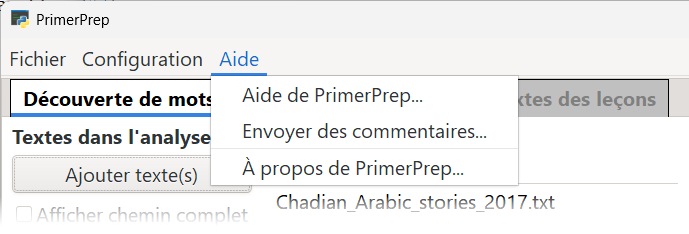
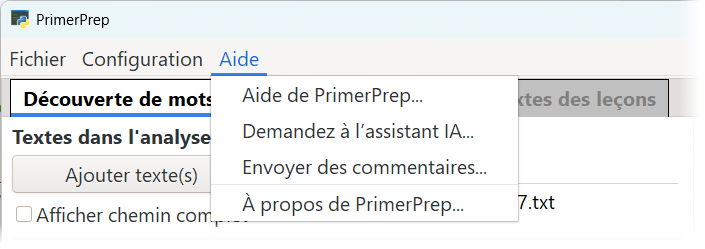
Update to 3.41: Add link to AI agent in Help menu

diff --git a/Help/PrimerPrepHelp-en_US.htm b/Help/PrimerPrepHelp-en_US.htm
@@ -154,7 +154,7 @@ body {
 <p><span translatable="yes">The <strong>Configure menu</strong> has an option to <strong>Select the Text Font</strong>. PrimerPrep uses the &lsquo;Charis SIL&rsquo; font by default for all of the vernacular language text. This is a very good general-purpose font for Roman script languages, and may very well cover all of your needs. This font should be installed with the PrimerPrep program. <strong>If your characters are not appearing correctly</strong> it probably means either the &lsquo;Charis SIL&rsquo; font is no longer installed (go to <a href="https://software.sil.org/charis/download/">https://software.sil.org/charis/download/</a> for instructions on downloading and installing this font), or you may have a non-Roman script orthography for your language. In this case use this menu option to select an appropriate font for displaying the language. The PrimerPrep program should be able to handle right-to-left scripts such as Arabic or Hebrew.</span></p>
 <p><span translatable="yes">This menu also has an option to <strong>change the user interface</strong> between English and several other languages.</span></p>
 <img style="margin-left:3em;" width="417" src="PrimerPrepHelpMenu.png" alt="Help menu">
-<p><span translatable="yes">And finally, there is a <strong>Help menu</strong> which can open this <strong>help</strong> page, take you to a web site so you can  <strong>give feedback</strong> about the PrimerPrep program, or provide some information <strong>about</strong> the program.</span></p>
+<p><span translatable="yes">And finally, there is a <strong>Help menu</strong> which can open this <strong>help</strong> page, open a web page where you can get <strong>AI assistance</strong>, take you to a web site so you can  <strong>give feedback</strong> about the PrimerPrep program, or provide some information <strong>about</strong> the program.</span></p>
 
 
 <h3 id="contact"><span translatable="yes">Contact Information</span></h3>

diff --git a/Help/PrimerPrepHelp-es_ES.htm b/Help/PrimerPrepHelp-es_ES.htm
@@ -154,7 +154,7 @@ body {
 <p><span translatable="yes">El <strong>menú Configurar</strong> tiene una opción para <strong>Seleccionar el tipo de letra del texto</strong>. PrimerPrep utiliza la fuente 'Charis SIL' por defecto para todo el texto de las lenguas vernáculas. Se trata de una fuente de uso general muy buena para las lenguas de escritura romana, y puede cubrir muy bien todas sus necesidades. Esta fuente debe instalarse con el programa PrimerPrep. <strong>Si sus caracteres no aparecen correctamente</strong>, probablemente significa que la fuente 'Charis SIL' ya no está instalada (vaya a <a href="https://software.sil.org/charis/download/">https://software.sil.org/charis/download/</a> para obtener instrucciones sobre cómo descargar e instalar esta fuente), o puede que tenga una ortografía de escritura no romana para su idioma. En este caso, utilice esta opción del menú para seleccionar un tipo de letra adecuado para mostrar el idioma. El programa PrimerPrep debería ser capaz de manejar escrituras de derecha a izquierda como el árabe o el hebreo.</span></p>
 <p><span translatable="yes">Este menú también tiene una opción para <strong>cambiar la interfaz de usuario</strong> entre inglés y varios otros idiomas.</span></p>
 <img style="margin-left:3em;" width="417" src="es_ES\PrimerPrepHelpMenu.png" alt="Help menu">
-<p><span translatable="yes">Y por último, hay un <strong>menú Ayuda</strong> que puede abrir esta página de <strong>ayuda</strong>, llevarle a un sitio web para que pueda <strong>dar su opinión</strong> sobre el programa PrimerPrep o proporcionar alguna información <strong>sobre</strong> el programa.</span></p>
+<p><span translatable="yes">And finally, there is a <strong>Help menu</strong> which can open this <strong>help</strong> page, open a web page where you can get <strong>AI assistance</strong>, take you to a web site so you can  <strong>give feedback</strong> about the PrimerPrep program, or provide some information <strong>about</strong> the program.</span></p>
 
 
 <h3 id="contact"><span translatable="yes">Información de contacto</span></h3>

diff --git a/Help/PrimerPrepHelp-fa_AF.htm b/Help/PrimerPrepHelp-fa_AF.htm
@@ -154,7 +154,7 @@ body {
 <p><span translatable="yes">مینو تنظیم یک گزینه دارد که دیاگراف ها را بشکل اتومات جستجو میکند (چنانچه در مینوتنظیم زبان در بالا تشریح داده شد). همچنان یک گزینه برای انتخاب اندازه متن میباشد. پرایمرپریپ گزینه "Charis SIL Compact" را بحیث نوع خط معمول در زبان ها استفاده میکند. این نوع خط باید که در برنامه تحلیل پرایمرپریپ نصب گردد. اگر کرکترهای را که شما ضرورت دارید بصورت درست ظاهر نگردند به این معنی است که شاید نوع خط " Charis SIL Compact" نصب نگردیده. برای رهنمایی دانلود نمودن و نصب این نوع خط به اینجا بروید. (go to: <a href="http://scripts.sil.org">http://scripts.sil.org</a>) و شاید نوع خط برای چاپ متن شما غیر رومان باشد. در این صورت شما باید این مینو را انتخاب نمایید تا که یک نوع خط مناسب برای نشان دادن زبان مورد نظر تان نمایش داده شود. برنامه پرایمر پریپ باید بتواند شما را در نوشتن متن از راست به چپ مانند متن های عربی و عبرانی کمک کند.</span></p>
 <p><span translatable="yes">این مینو گزینه ای دارد که میتواند نوع زبان را بین انگلیسی و فرانسوی برای استفاده کننده تغییر دهد.</span></p>
 <img style="margin-left:3em;" width="417" src="fa_AF\PrimerPrepHelpMenu.png" alt="Help menu">
-<p><span translatable="yes">And finally, there is a <strong>Help menu</strong> which can open this <strong>help</strong> page, take you to a web site so you can  <strong>give feedback</strong> about the PrimerPrep program, or provide some information <strong>about</strong> the program.</span></p>
+<p><span translatable="yes">And finally, there is a <strong>Help menu</strong> which can open this <strong>help</strong> page, open a web page where you can get <strong>AI assistance</strong>, take you to a web site so you can  <strong>give feedback</strong> about the PrimerPrep program, or provide some information <strong>about</strong> the program.</span></p>
 
 
 <h3 id="contact"><span translatable="yes">اطلاعات تماس</span></h3>

diff --git a/Help/PrimerPrepHelp-fr_FR.htm b/Help/PrimerPrepHelp-fr_FR.htm
@@ -154,7 +154,7 @@ body {
 <p><span translatable="yes">Le <strong>menu Configure</strong> comporte une option permettant de <strong>Sélectionner la police de texte</strong>. PrimerPrep utilise par défaut la police &lsquo;Charis SIL&rsquo; pour tous les textes en langues vernaculaires. Il s’agit d’une très bonne police polyvalente pour les langues à écriture romaine, qui peut très bien répondre à tous vos besoins. Cette police doit être installée avec le programme PrimerPrep. <strong>Si vos caractères ne s’affichent pas correctement</strong>, cela signifie probablement que la police &lsquo;Charis SIL&rsquo; n’est plus installée (voir <a href="https://software.sil.org/charis/download/">https://software.sil.org/charis/download/</a> pour des instructions sur le téléchargement et l’installation de cette police), ou que vous disposez d’une orthographe non romaine pour votre langue. Dans ce cas, utilisez cette option de menu pour sélectionner une police appropriée pour l’affichage de la langue. Le programme PrimerPrep devrait être en mesure de gérer les écritures de droite à gauche telles que l’arabe ou l’hébreu.</span></p>
 <p><span translatable="yes">Ce menu a également une option pour <strong>changer l’interface utilisateur</strong> de l’anglais à plusieurs autres langues.</span></p>
 <img style="margin-left:3em;" width="417" src="fr_FR\PrimerPrepHelpMenu.png" alt="Help menu">
-<p><span translatable="yes">Enfin, le menu <strong>Aide</strong> permet d’ouvrir cette page d’<strong>aide</strong>, d’accéder à un site Web où vous pouvez <strong>envoyer des commentaires</strong> sur le logiciel PrimerPrep, ou de fournir des informations <strong>à propos</strong> le logiciel.</span></p>
+<p><span translatable="yes">Enfin, le menu <strong>Aide</strong> permet d’ouvrir cette page d’<strong>aide</strong>, d’ouvrir une page web avec un <strong>assistant IA</strong>, d’accéder à un site web où vous pouvez <strong>envoyer des commentaires</strong> sur le logiciel PrimerPrep, ou de fournir des informations <strong>à propos</strong> le logiciel.</span></p>
 
 
 <h3 id="contact"><span translatable="yes">Information de contact</span></h3>

diff --git a/Help/PrimerPrepHelp-ps_AF.htm b/Help/PrimerPrepHelp-ps_AF.htm
@@ -154,7 +154,7 @@ body {
 <p><span translatable="yes">او همدارنګه د متن د خط د انتخاب لپاره یو بل انتخاب هم شته. پرایمر پریپ د ‘Charis SIL Compact’ خط دځايي ژبې د متن لپاره استفاده کوي. دا یو ډیر ښه مهم او عمومي او هدفي خط دی د رومان سکریپت ژبولپاره، او ممکن ستاسو ټول ضرورتونه په ښه توګه سره پوره کړي. دا خط باید د پرایمر پریپ پروګرام سره نصب شي. که چېرته ستاسو کرکترونه په ښه ډول سره نه ښکاري نوپه لوړ احتمال سره چې دا ‘Charis SIL Compact’خط به نه وي نصب شوی ( دلته لاړ شئ <a href="http://scripts.sil.org">http://scripts.sil.org</a> تاسو ته دلته د دې خط د راښکته کولو او نصب کولو معلومات درکوي( او یا به تاسو د non-Roman script اورتوګرافي د خپلی ژبې لپاره لرئ. په دې حالت کې د دې مینو ټاکنه وکاروئ، ترڅو دژبې د ښودلو لپاره یو مناسب خط انتخاب کړئ. د پرایمر پریپ پروګرام باید دا وړتیا ولري، ترڅو له ښي خوا نه چپ خوا ته سکريپتونه سمبال کړی شي لکه عربي او هیبریو.</span></p>
 <p><span translatable="yes">دا مینو دا انتخاب هم لري چې د فرانسوي او انګلیسی ژبې تر مینځ د کاروونکوو تر مینځ کارندي تغیروي شي.</span></p>
 <img style="margin-left:3em;" width="417" src="ps_AF\PrimerPrepHelpMenu.png" alt="Help menu">
-<p><span translatable="yes">And finally, there is a <strong>Help menu</strong> which can open this <strong>help</strong> page, take you to a web site so you can  <strong>give feedback</strong> about the PrimerPrep program, or provide some information <strong>about</strong> the program.</span></p>
+<p><span translatable="yes">And finally, there is a <strong>Help menu</strong> which can open this <strong>help</strong> page, open a web page where you can get <strong>AI assistance</strong>, take you to a web site so you can  <strong>give feedback</strong> about the PrimerPrep program, or provide some information <strong>about</strong> the program.</span></p>
 
 
 <h3 id="contact"><span translatable="yes">د اړیکې معلومات</span></h3>

diff --git a/PrimerPrep.py b/PrimerPrep.py
@@ -18,6 +18,8 @@
 # © 2025 SIL Global
 #
 # Modifications:
+# 3.41 JCH Oct 2025
+#    Add link to AI agent (Ask AI Assistant) in Help menu
 # 3.40 JCH Jun 2025
 #    Mark character being taught in the list of example words in the teaching order
 #    Add filter in LessonTexts, mark in bold all text that matches the filter (set to lesson letter by default)
@@ -152,7 +154,7 @@
 #       (commas considered vowel marks in Scheherazade Compact with Graphite)
 
 APP_NAME = "PrimerPrep"
-progVersion = "3.40"
+progVersion = "3.41"
 progYear = "2025"
 dataModelVersion = 2
 DEBUG = False
@@ -2331,6 +2333,12 @@ class Handler:
         #global myGlobalConfig
         #lang = myGlobalConfig['Option']['lang']'   # May eventually want to go to a different page dependent on UI language?
         webbrowser.open("https://docs.google.com/forms/d/e/1FAIpQLSddxvDvbn0uohOt7J4Gcc48KgLxg1q4hOfjeYLRSUlKB4pQUw/viewform?usp=sf_link", new=2)
+    
+    def on_AIAssistantMenuItem_activate(self, *args):
+        '''Process the Help > Ask AI Assistant menu. Go to AI agent web page.'''
+        #global myGlobalConfig
+        #lang = myGlobalConfig['Option']['lang']'   # May eventually want to go to a different page dependent on UI language?
+        webbrowser.open("https://software.sil.org/primerprep/help/agent/", new=2)
     
     def on_aboutMenuItem_activate(self, *args):
         '''Process the Help > About menu. Display information about the program.'''